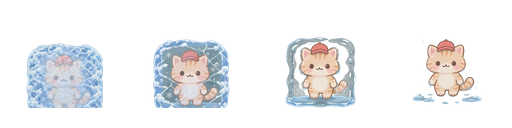
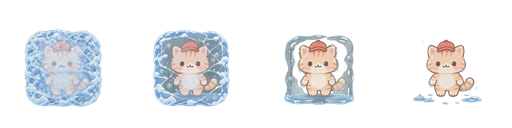
freeze: stop correcting a movement that never happened
The cat sank between the first two stages, which is what the alignment
was supposed to prevent and was in fact causing.

The cap was tracked by centroid at `r - g > 45`. Through thick ice the
cap is pale and desaturated, so that threshold kept almost none of it --
one row of pixels in the most frozen frame. The centroid of one row is
not the centroid of a cap, so the measurement reported 115 pixels of
travel and every early stage was shoved down to compensate.

Measured again with a threshold loose enough to read the cap through the
ice: its top sits between y=94 and y=106 across all 48 frames. Twelve
pixels out of 640. The animal was still the whole time, the camera is
locked, and the frames were already aligned with each other.

So there is one transform now, shared by all four stages, and the tool
checks the thing that actually matters instead of trusting the maths: it
measures the cap in the finished sheet and fails if the stages disagree
by more than three pixels or drift from the live sprite. They read
41, 40, 40, 40 against the live cat's 42.

If a future clip really does move the animal, that check says so and the
answer is a better clip -- not shoving frames about, which is how this
went wrong.

Claude-Session: https://claude.ai/code/session_018LLKRHHvseGJAEGqDrmjbR

diff --git a/motorio/tools/sprite/build_freeze.py b/motorio/tools/sprite/build_freeze.py
@@ -19,19 +19,27 @@ The last stage is deliberately still icy. What follows it in the game is not a
 fifth picture but the ordinary cat sprite, so a stage that had already finished
 melting would be a duplicate of something the game already draws.
 
-## The cat is held still; the ice is what moves
+## The cat does not move, and neither do the frames
 
-The generator was asked for an animal that does not move, and it very nearly
-obliged -- the pose is identical throughout. But the block shrinks, and as it
-shrinks the cat settles: its cap travels 115 pixels down the frame, 18 percent
-of the height. Used as they are, the four stages would show the cat sliding
-downward while the ice receded.
+The generator was asked for an animal that holds still and it did: measured
+across all 48 frames, the top of its cap sits between y=94 and y=106 -- twelve
+pixels out of 640, under two percent. The camera is locked, so the frames are
+already aligned with each other and there is nothing to correct.
 
-So the frames are aligned on the cat rather than on the frame, using the cap --
-the one part visible through the ice at every stage -- and everything is placed
-where the cat sits in the final, thawed frame. The ice then recedes *around* a
-cat that stays put, which is both what the fiction says happens and what makes
-the last stage line up with the live cat sprite that replaces it.
+The first version of this did correct it, and that is what made the stages
+wrong. It tracked the cap by centroid using a strict red threshold, and through
+thick ice only a few pixels of the cap survive that threshold -- in the most
+frozen frame, one row of them. The centroid of one row is not the centroid of a
+cap, so the measurement said the cat had travelled 115 pixels and every early
+stage was shoved down by a correction for movement that never happened. The cat
+visibly sank between stages one and two.
+
+The lesson is the ordinary one and it cost a re-cut: a measurement taken through
+an obstruction measures the obstruction. Loosening the threshold made the cap
+readable at every stage and the movement disappeared.
+
+So: one transform, shared by all four stages, and a check at the end that the
+cap really does land in the same place in each.
 """
 from __future__ import annotations
 
@@ -104,8 +112,8 @@ def _despill(art: Image.Image) -> Image.Image:
     return art
 
 
-def measure(art: Image.Image) -> tuple[float, tuple[float, float]]:
-    """How much ice is left, and where the cap is.
+def measure(art: Image.Image) -> tuple[float, int]:
+    """How much ice is left, and where the top of the cap is.
 
     Ice is counted as pale blue: the palette has no other blue in it, and the
     cat's own colours are warm. The cap is the warm red, which is the only thing
@@ -118,7 +126,7 @@ def measure(art: Image.Image) -> tuple[float, tuple[float, float]]:
     pixels = list(art.getdata())
     solid = ice = 0
     cap = 0
-    cap_x = cap_y = 0
+    cap_top = art.height
     width = art.width
     for index, (r, g, b, a) in enumerate(pixels):
         if a < 32:
@@ -126,13 +134,16 @@ def measure(art: Image.Image) -> tuple[float, tuple[float, float]]:
         solid += 1
         if b >= r and b > 150:
             ice += 1
-        if r > 150 and r - g > 45 and r - b > 45:
+        # Loose on purpose. Through thick ice the cap is pale and desaturated;
+        # at `r - g > 45` the most frozen frame yielded a single row of pixels,
+        # and a centroid taken from that is what produced a phantom 115 pixels
+        # of movement. This threshold reads the cap at every stage.
+        if r > 140 and r - g > 20 and r - b > 20:
             cap += 1
-            cap_x += index % width
-            cap_y += index // width
+            cap_top = min(cap_top, index // width)
     if cap == 0:
-        raise SystemExit("모자를 찾지 못했습니다 — 정렬 기준이 없습니다")
-    return ice / max(solid, 1), (cap_x / cap, cap_y / cap)
+        raise SystemExit("모자를 찾지 못했습니다")
+    return ice / max(solid, 1), cap_top
 
 
 def main() -> int:
@@ -149,10 +160,14 @@ def main() -> int:
     ice = [m[0] for m in measured]
     caps = [m[1] for m in measured]
 
-    # Where the cat ends up, which is where every stage is moved to.
-    anchor = caps[-1]
-    print("모자 이동: %.0f px (정렬 기준 %.0f, %.0f)"
-          % (max(c[1] for c in caps) - min(c[1] for c in caps), anchor[0], anchor[1]))
+    # Stated rather than corrected. If a future clip really does move the animal
+    # this is where it shows, and the answer then is to ask for a better clip --
+    # not to shove the frames about, which is what went wrong the first time.
+    drift = max(caps) - min(caps)
+    print("모자 top: %d~%d (움직임 %d px / %d)" % (min(caps), max(caps), drift, art[0].height))
+    if drift > art[0].height * 0.05:
+        print("경고: 클립 안에서 고양이가 움직입니다 — 다시 생성하는 편이 낫습니다",
+              file=sys.stderr)
 
     # Four steps evenly spread along how much ice is left, from the most frozen
     # frame down to LAST_ICE.
@@ -186,21 +201,33 @@ def main() -> int:
     print("크기 맞춤: 프레임의 고양이 %dpx -> 셀의 %dpx (%.3f배)"
           % (box[3] - box[1], live_height, scale))
 
+    # One transform for all four. The frames are already aligned with each
+    # other -- the camera is locked and the animal holds still -- so anything
+    # per-stage here would be moving them apart rather than together.
+    place = (round(live_foot[0] - foot[0] * scale), round(live_foot[1] - foot[1] * scale))
     sheet = Image.new("RGBA", (CELL * STAGES, CELL), (0, 0, 0, 0))
     for slot, index in enumerate(chosen):
         source = art[index]
-        # Two moves, in order: the cap onto the anchor, so every stage shares the
-        # last frame's geometry, and then that geometry onto the live cat's.
-        offset = (round(anchor[0] - caps[index][0]), round(anchor[1] - caps[index][1]))
-        moved = Image.new("RGBA", source.size, (0, 0, 0, 0))
-        moved.paste(source, offset)
-
-        small = moved.resize((max(1, round(source.width * scale)),
-                              max(1, round(source.height * scale))), Image.LANCZOS)
+        small = source.resize((max(1, round(source.width * scale)),
+                               max(1, round(source.height * scale))), Image.LANCZOS)
         cell = Image.new("RGBA", (CELL, CELL), (0, 0, 0, 0))
-        cell.alpha_composite(small, (round(live_foot[0] - foot[0] * scale),
-                                     round(live_foot[1] - foot[1] * scale)))
+        cell.alpha_composite(small, place)
         sheet.alpha_composite(cell, (slot * CELL, 0))
+
+    # The thing the player actually notices, checked rather than assumed: the cat
+    # has to be in the same place in every stage, and in the same place as the
+    # live sprite that replaces it. The first cut of this sheet failed exactly
+    # here -- the cap sat at 56, 50, 42, 40 -- and nothing caught it but an eye.
+    tops = []
+    for slot in range(STAGES):
+        _, top = measure(sheet.crop((slot * CELL, 0, (slot + 1) * CELL, CELL)))
+        tops.append(top)
+    _, live_top = measure(live)
+    spread = max(tops + [live_top]) - min(tops + [live_top])
+    print("결과 모자 top: %s · 살아있는 고양이 %d · 최대 차이 %d px" % (tops, live_top, spread))
+    if spread > 3:
+        print("고양이가 단계마다 다른 자리에 있습니다", file=sys.stderr)
+        return 1
 
     GAME_ART.mkdir(parents=True, exist_ok=True)
     out = GAME_ART / "cat_freeze_4.png"

diff --git a/AGENTS.md b/AGENTS.md
@@ -109,6 +109,7 @@ Playwright가 함께 받는 `ffmpeg-1011`은 **답이 아니다.** 녹화용 빌
 (`-decoders | grep h264`로 확인). 파일이 멀쩡한 mp4인데 "Invalid data"가 나오면 이것이다.
 
 ## 실수와 교훈
+- 2026-08-14: **가려진 것을 통해 잰 값은 가려진 것을 잰다.** 얼음에 언 고양이 4단계를 만들면서 모자의 무게중심으로 프레임을 정렬했는데, 두꺼운 얼음 너머에서는 붉은 픽셀이 거의 살아남지 않아 가장 언 프레임에서는 **한 줄**만 잡혔다. 한 줄의 무게중심은 모자의 무게중심이 아니므로 "고양이가 115px 이동했다"는 값이 나왔고, 나는 **일어나지도 않은 이동을 보정해서** 초반 단계를 아래로 밀어 버렸다. 사용자가 "1·2번째 이미지가 내려가 있다"고 짚어 줬다. 임계값을 느슨하게 해서 다시 재니 모자 top은 클립 내내 94~106, 즉 12px(1.9%)로 **사실상 정지**였다 — 정렬 자체가 필요 없었다. 보정을 넣기 전에 **보정할 대상이 실재하는지** 다른 방법으로 한 번 더 재고, 결과물에는 "모든 단계에서 같은 자리인가"를 검사로 남긴다.
 
 - 2026-07-22: `godot --headless`의 더미 렌더러에서도 Viewport texture를 PNG로 저장할 수 있다고 가정해 방향별 고양이 캡처가 null texture로 실패했다. 실제 렌더 이미지 검증은 WebGL 브라우저나 렌더링 드라이버가 있는 실행 환경에서 수행하고, headless는 파싱·로직 테스트에만 사용한다.
 - 2026-07-22: 시각 개선 중 Godot `Rect2`에 존재하지 않는 `translated()` 메서드를 사용해 상자 스크립트가 파싱되지 않았다. 좌표 이동 사각형은 `Rect2(original.position + offset, original.size)`로 명시하고, 새 API 사용 직후 편집기 로드로 확인한다.
